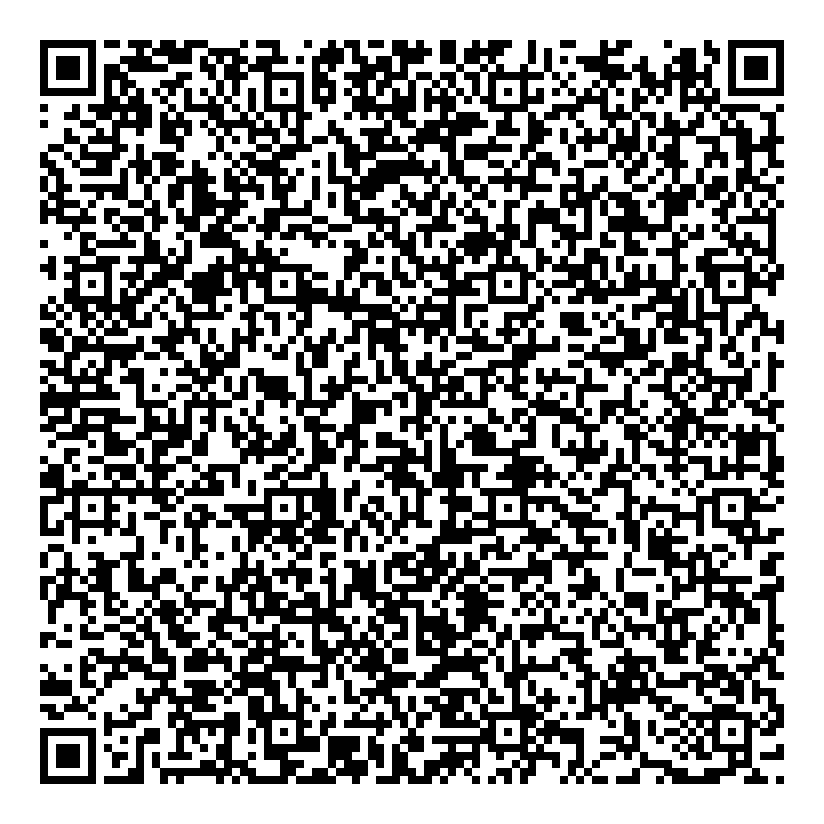
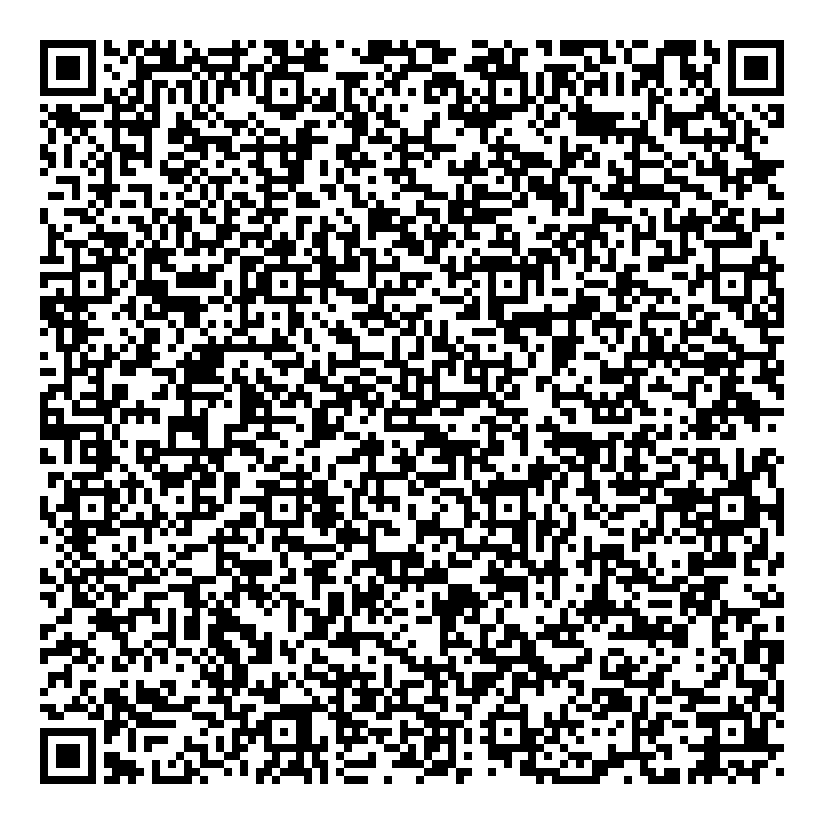
Add Agent update management

diff --git a/src/pages/PhoneControlPage.jsx b/src/pages/PhoneControlPage.jsx
@@ -32,6 +32,7 @@ import {
   getKioskForPhone,
   getPhoneKioskCountryCode,
   getPhoneConnectionState,
+  normalizeAgentRelease,
   normalizePhoneDevice,
   phoneLocationMapUrls,
   phoneMatchesSearch,
@@ -136,6 +137,7 @@ function commandLabel(operation) {
 function commandActionLabel(operation, args = {}) {
   if (operation === 'SET_WIFI_ENABLED') return `Turn Wi-Fi ${args.enabled === true ? 'on' : 'off'}`;
   if (operation === 'SET_LOCATION_ENABLED') return `Turn GPS ${args.enabled === true ? 'on' : 'off'}`;
+  if (operation === 'INSTALL_APP_UPDATE' && args.versionName) return `Install Agent ${args.versionName}`;
   return commandLabel(operation);
 }
 
@@ -169,6 +171,15 @@ function phoneCommandConfirmationDetails(confirmation, device) {
     };
   }
 
+  if (operation === 'INSTALL_APP_UPDATE') {
+    const versionName = confirmation?.args?.versionName || 'update';
+    return {
+      title: `Install Agent ${versionName}`,
+      action: operation,
+      confirmationText: `Install Agent ${versionName} on the phone assigned to ${stationLabel}? Remote management will restart briefly while Android replaces the app.`,
+    };
+  }
+
   return {
     title: `Confirm ${commandLabel(operation)}`,
     action: operation,
@@ -196,8 +207,8 @@ function SummaryCard({ label, value, detail, tone = 'slate' }) {
 function FieldProvisioningCard() {
   const basePath = import.meta.env.BASE_URL || '/portal/';
   const [release, setRelease] = useState({
-    versionName: '1.1.1',
-    apkUrl: 'https://chargerentstations.com/portal/mdm/remote-agent-v1.1.1.apk',
+    versionName: '1.2.0',
+    apkUrl: 'https://chargerentstations.com/portal/mdm/remote-agent-v1.2.0.apk',
     qrImagePath: `${basePath}mdm/remote-agent-device-owner-qr.png`,
     qrPayloadPath: `${basePath}mdm/remote-agent-device-owner-payload.json`,
   });
@@ -210,7 +221,8 @@ function FieldProvisioningCard() {
         return response.json();
       })
       .then((metadata) => {
-        if (active) setRelease((current) => ({ ...current, ...metadata }));
+        const trustedRelease = normalizeAgentRelease(metadata);
+        if (active) setRelease((current) => ({ ...current, ...metadata, ...trustedRelease }));
       })
       .catch(() => {
         // The bundled release details remain usable when metadata refresh is unavailable.
@@ -252,6 +264,15 @@ function FieldProvisioningCard() {
       <a href={release.qrPayloadPath} target="_blank" rel="noreferrer" className="mt-3 block text-center text-[11px] font-semibold text-slate-400 hover:text-slate-600">View Android provisioning file</a>
     </div>
   );
+}
+
+async function fetchCurrentAgentRelease() {
+  const basePath = import.meta.env.BASE_URL || '/portal/';
+  const response = await fetch(`${basePath}mdm/remote-agent-provisioning.json`, {
+    cache: 'no-store',
+  });
+  if (!response.ok) throw new Error('Current Agent release information is unavailable.');
+  return normalizeAgentRelease(await response.json());
 }
 
 function Metric({ icon: Icon, label, value, active = null }) {
@@ -728,6 +749,7 @@ export default function PhoneControlPage({
   const [enrollmentStationId, setEnrollmentStationId] = useState('');
   const [enrollmentCode, setEnrollmentCode] = useState('');
   const [liveRequestedDeviceId, setLiveRequestedDeviceId] = useState('');
+  const [agentUpdateChecking, setAgentUpdateChecking] = useState(false);
   const [now, setNow] = useState(() => Date.now());
 
   const isAdmin = currentUser?.isAdmin === true || currentUser?.role === 'admin' || currentUser?.username === 'chargerent';
@@ -917,6 +939,42 @@ export default function PhoneControlPage({
     }
     sendCommand(operation, args, false);
   }, [sendCommand]);
+
+  const requestAgentUpdate = useCallback(async () => {
+    if (!selectedDevice?.id || agentUpdateChecking) return;
+    setAgentUpdateChecking(true);
+    setCommandStatus({ state: 'sending', message: 'Checking for the latest Agent release…' });
+    try {
+      const release = await fetchCurrentAgentRelease();
+      const installedVersionCode = Number(selectedDevice.inventory.agentVersionCode || 0);
+      const sameNamedVersion = selectedDevice.inventory.agentVersion === release.versionName;
+      if ((installedVersionCode > 0 && installedVersionCode >= release.versionCode) ||
+          (!installedVersionCode && sameNamedVersion)) {
+        setCommandStatus({
+          state: 'success',
+          message: `Agent ${release.versionName} is already installed on ${selectedDevice.stationId || 'this phone'}.`,
+        });
+        return;
+      }
+      setCommandStatus(null);
+      setConfirmation({
+        operation: 'INSTALL_APP_UPDATE',
+        args: {
+          httpsUrl: release.apkUrl,
+          sha256: release.apkSha256,
+          versionCode: release.versionCode,
+          versionName: release.versionName,
+        },
+      });
+    } catch (error) {
+      setCommandStatus({
+        state: 'error',
+        message: humanizePhoneMessage(error?.message || 'Could not check for Agent updates.'),
+      });
+    } finally {
+      setAgentUpdateChecking(false);
+    }
+  }, [agentUpdateChecking, selectedDevice]);
 
   const startRealtimeScreen = useCallback(async (arguments_) => {
     if (!selectedDevice?.id) return;
@@ -1171,6 +1229,9 @@ export default function PhoneControlPage({
                           <WifiToggle enabled={selectedDevice.inventory.wifiEnabled} onToggle={() => requestCommand('SET_WIFI_ENABLED', { enabled: !selectedDevice.inventory.wifiEnabled })} disabled={!canControlSelected} />
                           <ActionButton icon={LockClosedIcon} onClick={() => requestCommand('LOCK_NOW')} disabled={!canControlSelected || selectedWebRtcActive} title={selectedWebRtcActive ? 'Stop the live stream before locking the phone' : ''} tone="amber">Lock</ActionButton>
                           <ActionButton icon={PowerIcon} onClick={() => requestCommand('REBOOT')} disabled={!canControlSelected} tone="red">Reboot</ActionButton>
+                          <ActionButton icon={ArrowPathIcon} onClick={requestAgentUpdate} disabled={!canControlSelected || agentUpdateChecking} tone="blue" className="col-span-2">
+                            {agentUpdateChecking ? 'Checking for update…' : 'Update Agent'}
+                          </ActionButton>
                         </div>
                       </section>
                       <section className="rounded-xl border border-slate-200 bg-white p-5 shadow-sm">

diff --git a/functions/phoneControl.js b/functions/phoneControl.js
@@ -12,6 +12,7 @@ const ENROLLMENT_TTL_MS = 15 * 60 * 1000;
 const ENROLLMENT_ALPHABET = "ABCDEFGHJKLMNPQRSTUVWXYZ23456789";
 const ENROLLMENT_CODE_LENGTH = 6;
 const LEGACY_ENROLLMENT_CODE_LENGTH = 8;
+const AGENT_RELEASE_HOST = "chargerentstations.com";
 const DEVICE_REQUEST_CLOCK_SKEW_MS = 2 * 60 * 1000;
 
 const ALLOWED_OPERATIONS = new Set([
@@ -147,6 +148,39 @@ function normalizeArguments(value, maxBytes = 16 * 1024) {
     invalidArgument("Command arguments are too large.");
   }
   return clean;
+}
+
+function normalizeAppUpdateArguments(value) {
+  const input = normalizeArguments(value);
+  let packageUrl;
+  try {
+    packageUrl = new URL(String(input.httpsUrl || "").trim());
+  } catch {
+    invalidArgument("A valid Agent update URL is required.");
+  }
+  if (packageUrl.protocol !== "https:" || packageUrl.hostname !== AGENT_RELEASE_HOST ||
+      packageUrl.port || packageUrl.username || packageUrl.password || packageUrl.search ||
+      packageUrl.hash ||
+      !/^\/portal\/mdm\/remote-agent-v\d+\.\d+\.\d+\.apk$/.test(packageUrl.pathname)) {
+    invalidArgument("Only official Chargerent Agent releases can be installed.");
+  }
+
+  const sha256 = String(input.sha256 || "").trim().toLowerCase();
+  if (!/^[0-9a-f]{64}$/.test(sha256)) {
+    invalidArgument("A valid Agent package SHA-256 is required.");
+  }
+  const versionCode = Number(input.versionCode);
+  const versionName = String(input.versionName || "").trim();
+  if (!Number.isSafeInteger(versionCode) || versionCode < 1 ||
+      !/^\d+\.\d+\.\d+$/.test(versionName)) {
+    invalidArgument("A valid Agent release version is required.");
+  }
+  return {
+    httpsUrl: packageUrl.toString(),
+    sha256,
+    versionCode,
+    versionName,
+  };
 }
 
 function canonicalJson(value) {
@@ -658,11 +692,21 @@ async function sendCommand(data, authState, dependencies) {
   }
 
   const maxArgumentBytes = operation === "START_WEBRTC_SCREEN" ? 128 * 1024 : 16 * 1024;
-  const commandArguments = normalizeArguments(data?.arguments, maxArgumentBytes);
+  const commandArguments = operation === "INSTALL_APP_UPDATE" ?
+    normalizeAppUpdateArguments(data?.arguments) :
+    normalizeArguments(data?.arguments, maxArgumentBytes);
   if (HIGH_IMPACT_OPERATIONS.has(operation)) commandArguments.confirmed = true;
 
   const deviceRef = db.collection(DEVICES_COLLECTION).doc(deviceId);
   const authorizedDeviceSnapshot = await assertDeviceAccess(db, authState, deviceId);
+  if (operation === "INSTALL_APP_UPDATE") {
+    const installedVersionCode = Number(
+        authorizedDeviceSnapshot.data()?.inventory?.agentVersionCode || 0,
+    );
+    if (installedVersionCode > 0 && commandArguments.versionCode <= installedVersionCode) {
+      throw new HttpsError("failed-precondition", "This phone already has the current Agent release.");
+    }
+  }
   const authorizedStationId = String(
       authorizedDeviceSnapshot.data()?.stationId || "",
   ).trim().toUpperCase();
@@ -1036,6 +1080,7 @@ module.exports = {
   hasPhoneControlAccess,
   authenticateDeviceRequest,
   normalizeArguments,
+  normalizeAppUpdateArguments,
   normalizeDeviceId,
   normalizeEnrollmentCode,
   normalizeScreenUpdate,

diff --git a/src/utils/phoneControl.js b/src/utils/phoneControl.js
@@ -14,6 +14,37 @@ export const HIGH_IMPACT_PHONE_OPERATIONS = new Set([
   'WIPE_DEVICE',
 ]);
 
+const AGENT_RELEASE_ORIGIN = 'https://chargerentstations.com';
+
+export function normalizeAgentRelease(metadata = {}) {
+  let apkUrl;
+  try {
+    apkUrl = new URL(String(metadata.apkUrl || '').trim());
+  } catch {
+    throw new Error('The Agent release URL is invalid.');
+  }
+  if (apkUrl.origin !== AGENT_RELEASE_ORIGIN || apkUrl.search || apkUrl.hash ||
+      !/^\/portal\/mdm\/remote-agent-v\d+\.\d+\.\d+\.apk$/.test(apkUrl.pathname)) {
+    throw new Error('The Agent release is not from the approved Chargerent download location.');
+  }
+
+  const versionName = String(metadata.versionName || '').trim();
+  const versionCode = Number(metadata.versionCode);
+  const apkSha256 = String(metadata.apkSha256 || '').trim().toLowerCase();
+  if (String(metadata.packageName || '') !== 'com.chargerent.remoteagent' ||
+      !/^\d+\.\d+\.\d+$/.test(versionName) ||
+      !Number.isSafeInteger(versionCode) || versionCode < 1 ||
+      !/^[0-9a-f]{64}$/.test(apkSha256)) {
+    throw new Error('The Agent release information is incomplete.');
+  }
+  return {
+    versionName,
+    versionCode,
+    apkUrl: apkUrl.toString(),
+    apkSha256,
+  };
+}
+
 export function phoneTimestampToMillis(value) {
   if (!value) return 0;
   if (typeof value.toMillis === 'function') return value.toMillis();
@@ -78,6 +109,9 @@ export function normalizePhoneDevice(rawDevice = {}, documentId = '') {
       androidVersion: String(inventory.androidVersion || '').trim(),
       securityPatch: String(inventory.securityPatch || '').trim(),
       agentVersion: String(inventory.agentVersion || rawDevice.agentVersion || '').trim(),
+      agentVersionCode: Number.isSafeInteger(Number(inventory.agentVersionCode))
+        ? Number(inventory.agentVersionCode)
+        : 0,
       batteryPercent: Number.isFinite(Number(inventory.batteryPercent))
         ? Number(inventory.batteryPercent)
         : null,

diff --git a/functions/phoneControl.test.js b/functions/phoneControl.test.js
@@ -17,6 +17,7 @@ const {
   enrollmentHash,
   hasPhoneControlAccess,
   normalizeArguments,
+  normalizeAppUpdateArguments,
   normalizeDeviceId,
   normalizeEnrollmentCode,
   normalizeScreenUpdate,
@@ -49,6 +50,28 @@ test("canonical JSON matches the Android sorted-key contract", () => {
       canonicalJson({offer: "a=https://example.com/path"}),
       "{\"offer\":\"a=https:\\/\\/example.com\\/path\"}",
   );
+});
+
+test("allows only versioned Chargerent Agent update packages", () => {
+  const update = normalizeAppUpdateArguments({
+    httpsUrl: "https://chargerentstations.com/portal/mdm/remote-agent-v1.2.0.apk",
+    sha256: "A".repeat(64),
+    versionCode: 15,
+    versionName: "1.2.0",
+  });
+  assert.equal(
+      update.httpsUrl,
+      "https://chargerentstations.com/portal/mdm/remote-agent-v1.2.0.apk",
+  );
+  assert.equal(update.sha256, "a".repeat(64));
+  assert.throws(() => normalizeAppUpdateArguments({
+    ...update,
+    httpsUrl: "https://example.com/remote-agent-v1.2.0.apk",
+  }), /Only official Chargerent Agent releases/);
+  assert.throws(() => normalizeAppUpdateArguments({
+    ...update,
+    sha256: "not-a-checksum",
+  }), /valid Agent package SHA-256/);
 });
 
 test("signs a command with an Android-compatible P-256 public key", () => {

diff --git a/src/version.js b/src/version.js
@@ -1,1 +1,1 @@
-export const VERSION = '1.63';
+export const VERSION = '1.64';
